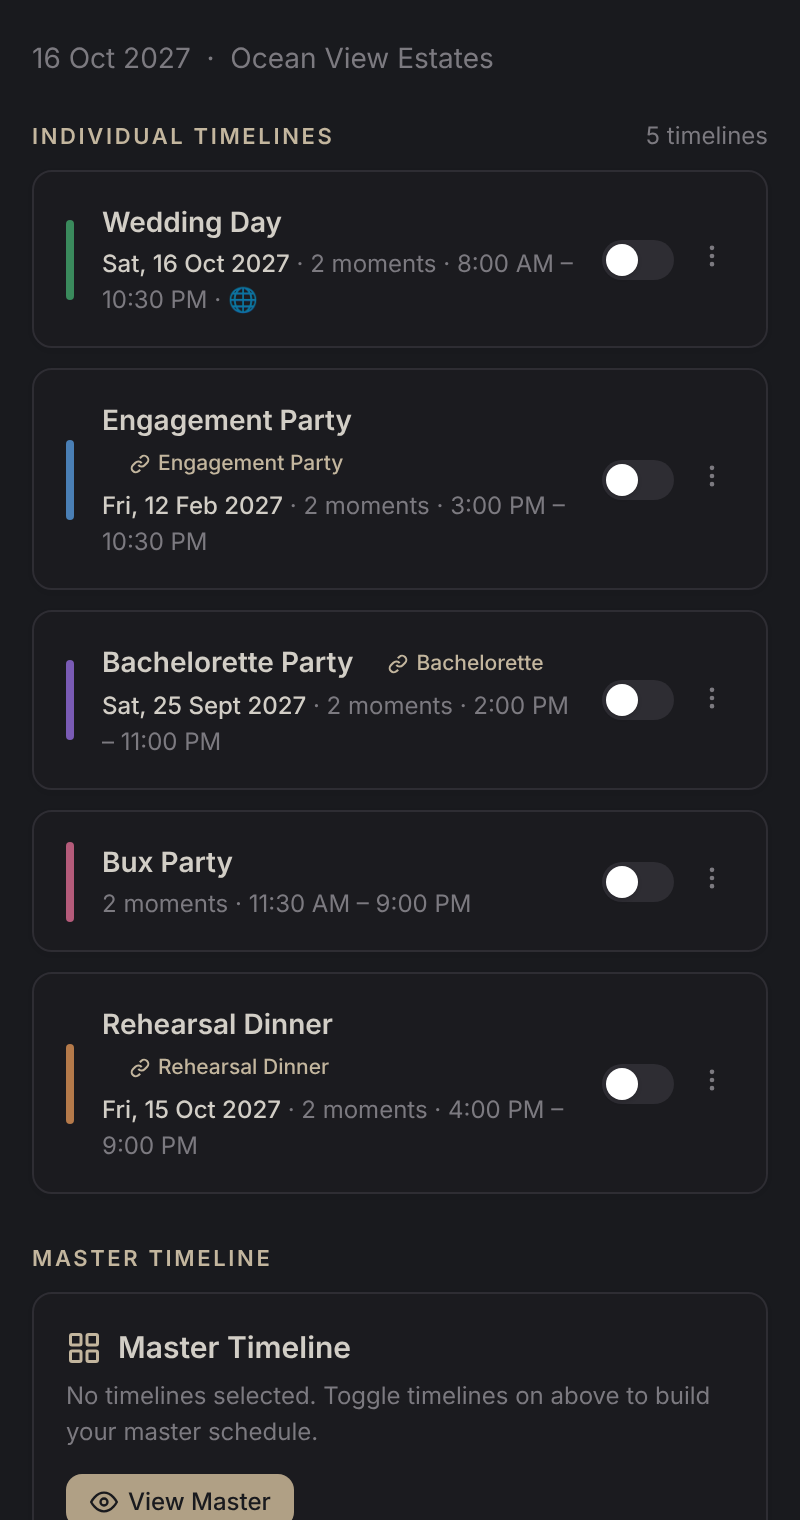
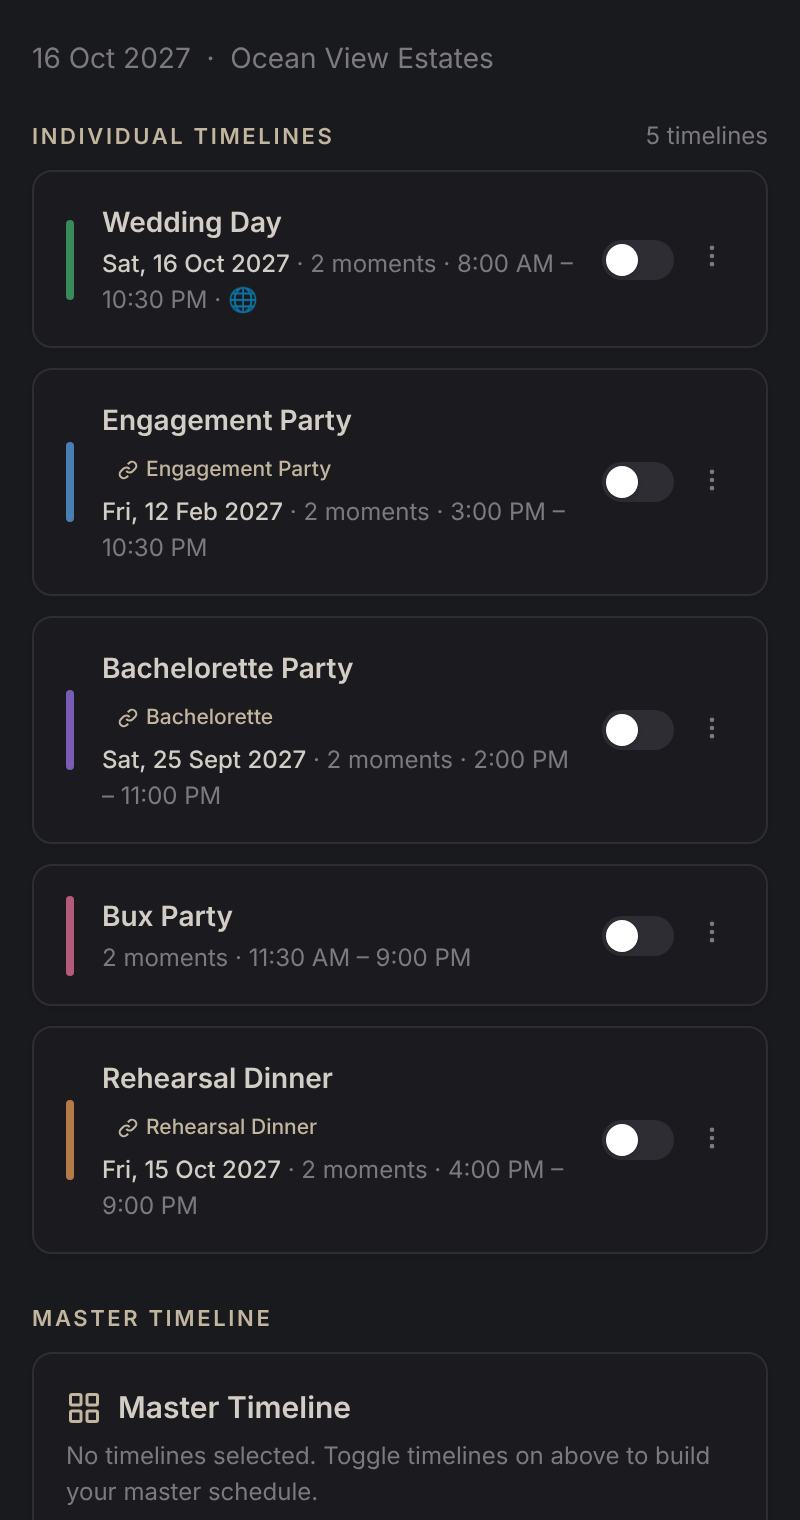
Timelines: linked-event chip always on its own line under the title (v511.1)
Claude-Session: https://claude.ai/code/session_019ebu8yvW7sYrHwDzmKtRqL

diff --git a/js/timeline.js b/js/timeline.js
@@ -235,7 +235,8 @@ function _tlRenderListView(c, actions){
     cardsHtml += `<div onclick="_tlOpenTimeline('${tl.id}')" style="display:flex;align-items:center;gap:14px;padding:14px 16px;background:var(--surface,var(--cream));border:1px solid var(--border);border-radius:10px;cursor:pointer;transition:all .15s;box-shadow:0 1px 3px rgba(0,0,0,.04)" onmouseover="this.style.borderColor='var(--gold)'" onmouseout="this.style.borderColor='var(--border)'">
       <div style="width:4px;height:40px;border-radius:3px;background:${col.hex};flex-shrink:0"></div>
       <div style="flex:1;min-width:0">
-        <div style="font-weight:600;font-size:14px">${_escHtml(tl.name)}${(()=>{if(!tl.linkedEventId)return '';const ev=(STATE.events||[]).find(e=>e.id===tl.linkedEventId);if(!ev)return '';return ' <span style="display:inline-flex;align-items:center;gap:4px;font-size:10.5px;font-weight:500;color:var(--gold-deep);background:var(--gold-bg);padding:2px 8px;border-radius:10px;margin-left:6px;vertical-align:middle"><svg width="10" height="10" viewBox="0 0 24 24" fill="none" stroke="currentColor" stroke-width="2.5"><path d="M10 13a5 5 0 0 0 7.54.54l3-3a5 5 0 0 0-7.07-7.07l-1.72 1.71"/><path d="M14 11a5 5 0 0 0-7.54-.54l-3 3a5 5 0 0 0 7.07 7.07l1.71-1.71"/></svg>'+_escHtml(ev.name)+'</span>';})()}</div>
+        <div style="font-weight:600;font-size:14px">${_escHtml(tl.name)}</div>
+        ${(()=>{if(!tl.linkedEventId)return '';const ev=(STATE.events||[]).find(e=>e.id===tl.linkedEventId);if(!ev)return '';return '<div style="margin-top:4px"><span style="display:inline-flex;align-items:center;gap:4px;max-width:100%;font-size:10.5px;font-weight:500;color:var(--gold-deep);background:var(--gold-bg);padding:2px 8px;border-radius:10px"><svg width="10" height="10" viewBox="0 0 24 24" fill="none" stroke="currentColor" stroke-width="2.5" style="flex-shrink:0"><path d="M10 13a5 5 0 0 0 7.54.54l3-3a5 5 0 0 0-7.07-7.07l-1.72 1.71"/><path d="M14 11a5 5 0 0 0-7.54-.54l-3 3a5 5 0 0 0 7.07 7.07l1.71-1.71"/></svg><span style="overflow:hidden;text-overflow:ellipsis;white-space:nowrap">'+_escHtml(ev.name)+'</span></span></div>';})()}
         <div style="font-size:12px;color:var(--muted);margin-top:2px">${_tlCardDate(tl,tls)}${n} moment${n!==1?'s':''} · ${span}${tl.showOnWebsite!==false?' · <span title="Visible on website" style="opacity:.6">&#127760;</span>':''}</div>
       </div>
       <div style="display:flex;align-items:center;gap:8px" onclick="event.stopPropagation()">

diff --git a/js/autocomplete.js b/js/autocomplete.js
@@ -146,7 +146,7 @@ function _acPick(inputId, name){
 // can land a launch late — and there was previously NO way to tell which build was
 // actually running. Diagnosing "I uploaded it but nothing changed" meant hunting for
 // whether a feature happened to appear. Bump this with every release.
-const APP_BUILD='v511.0';
+const APP_BUILD='v511.1';
 const APP_BUILD_DATE='2026-11-08';
 function _seatingPrintHtml(forPreview){
   const ev=STATE.event||{};

diff --git a/sw.js b/sw.js
@@ -1,4 +1,4 @@
-const CACHE = 'union-vault-v511.0';
+const CACHE = 'union-vault-v511.1';
 const SHELL = [
   '/', '/index.html',
   '/css/fonts.css', '/css/app.css', '/css/landing.css', '/css/setup-wizard.css',
